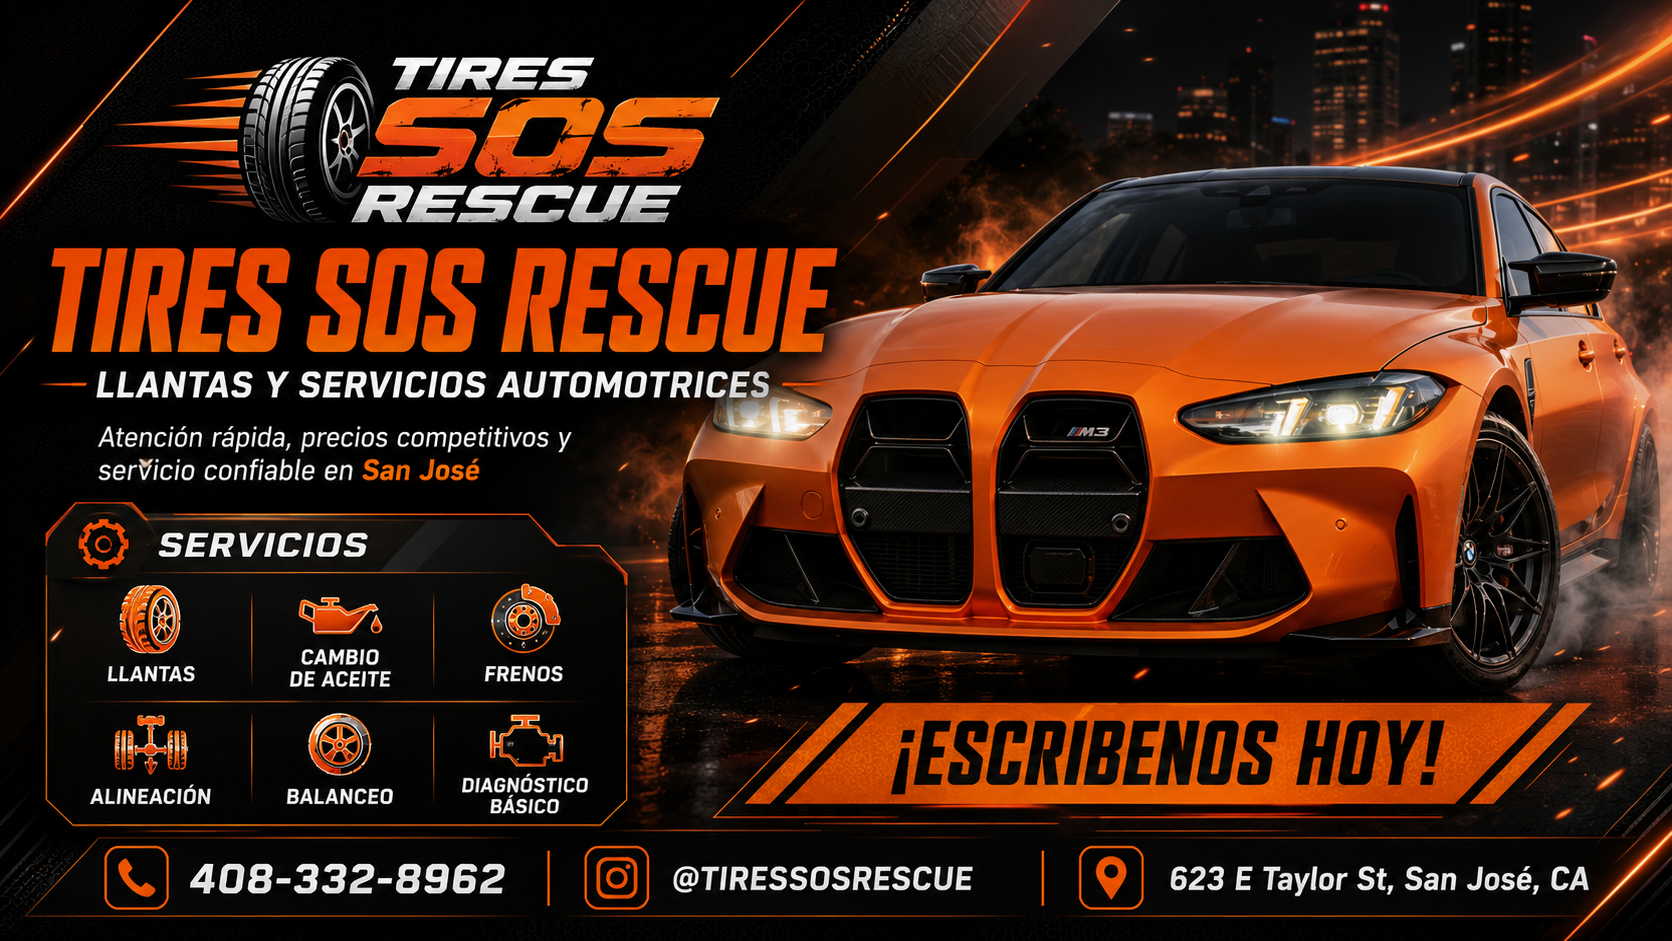
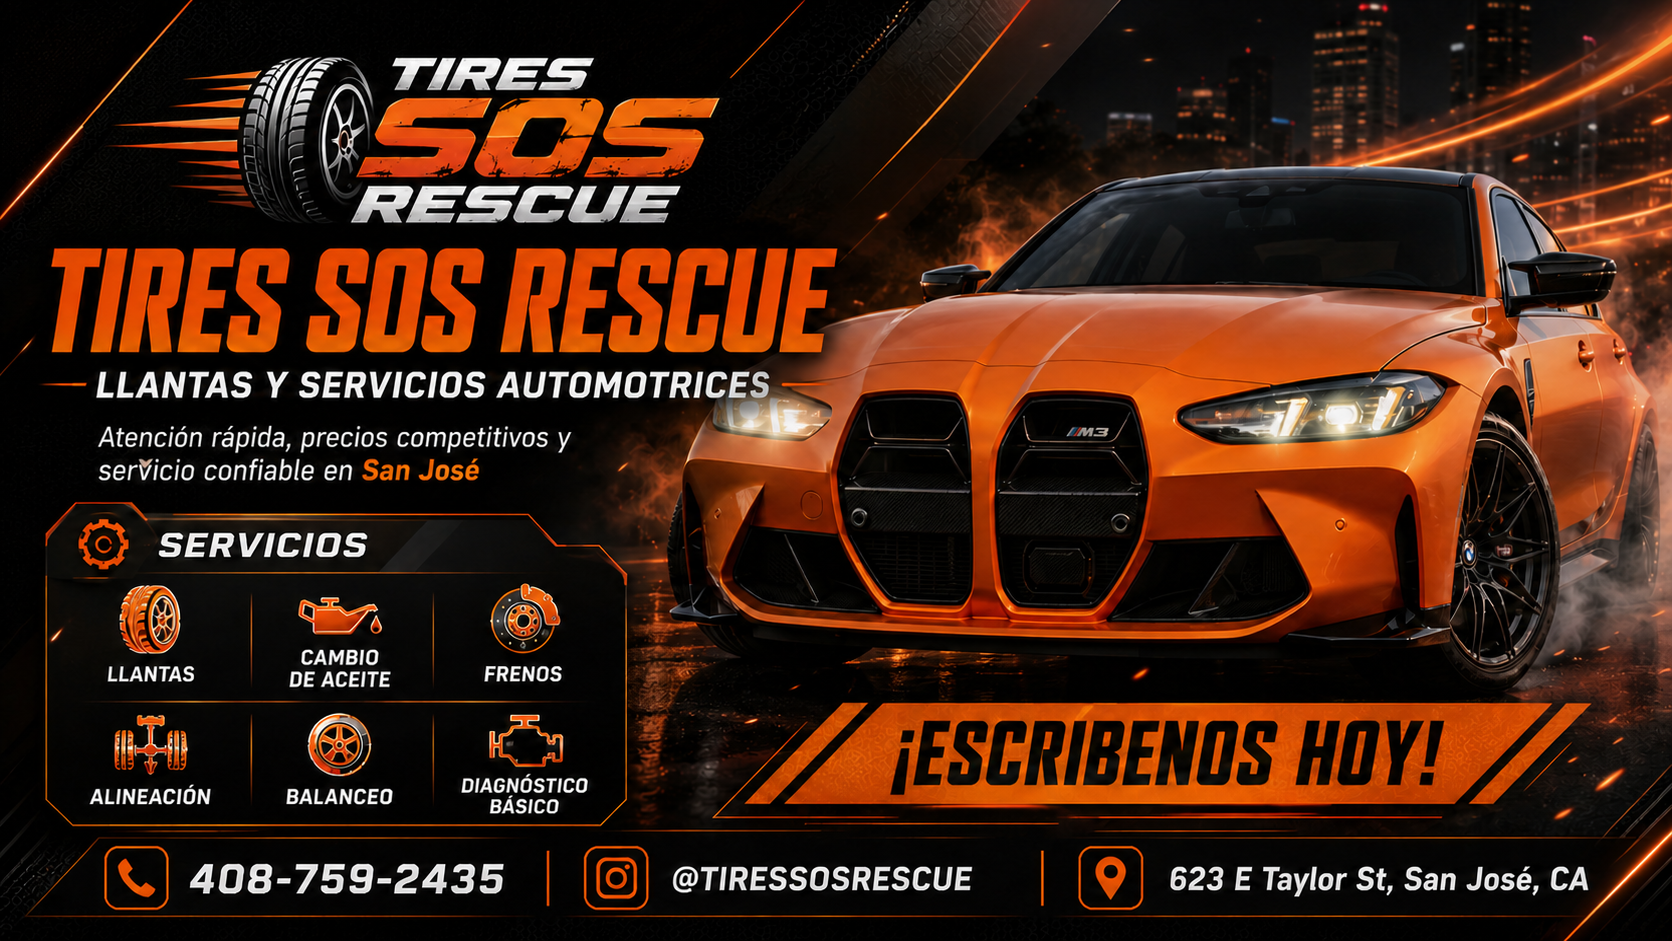
Update contact number and lead attribution

diff --git a/app/components/PostHogAnalytics.js b/app/components/PostHogAnalytics.js
@@ -3,6 +3,36 @@
 import { useEffect } from "react";
 import posthog from "posthog-js";
 
+const ATTRIBUTION_KEYS = ["utm_source", "utm_medium", "utm_campaign", "utm_content", "utm_term"];
+const ATTRIBUTION_STORAGE_KEY = "tires_sos_campaign_attribution";
+
+function currentAttribution() {
+  if (typeof window === "undefined") return {};
+  const params = new URLSearchParams(window.location.search);
+  const incoming = Object.fromEntries(
+    ATTRIBUTION_KEYS.map((key) => [key, params.get(key)?.trim() || ""]).filter(([, value]) => value),
+  );
+
+  let stored = {};
+  try {
+    stored = JSON.parse(window.localStorage.getItem(ATTRIBUTION_STORAGE_KEY) || "{}") || {};
+  } catch {
+    stored = {};
+  }
+
+  const attribution = Object.keys(incoming).length ? incoming : stored;
+  if (Object.keys(incoming).length) {
+    try {
+      window.localStorage.setItem(ATTRIBUTION_STORAGE_KEY, JSON.stringify(incoming));
+    } catch {}
+  }
+  return attribution;
+}
+
+function sourceChannel(attribution) {
+  return attribution.utm_source || attribution.utm_medium || "direct_or_organic";
+}
+
 function contactLocation(link) {
   if (link.dataset.analyticsLocation) return link.dataset.analyticsLocation;
   const section = link.closest("[id]");
@@ -29,20 +59,38 @@ function initializePostHog() {
 }
 
 export function captureAnalytics(event, properties = {}) {
-  if (initializePostHog()) posthog.capture(event, properties);
+  if (!initializePostHog()) return;
+  const attribution = currentAttribution();
+  posthog.capture(event, {
+    ...attribution,
+    source_channel: properties.source_channel || sourceChannel(attribution),
+    page_path: window.location.pathname || "/",
+    ...properties,
+  });
 }
 
 export default function PostHogAnalytics() {
   useEffect(() => {
     if (!initializePostHog()) return undefined;
 
+    const attribution = currentAttribution();
+    if (Object.keys(attribution).length) {
+      posthog.register({ ...attribution, source_channel: sourceChannel(attribution) });
+    }
+
     const trackContact = (event) => {
       const link = event.target.closest("a[href]");
       if (!link) return;
       const href = link.getAttribute("href") || "";
-      const channel = href.startsWith("sms:") ? "sms" : href.includes("wa.me/") ? "whatsapp" : "";
+      const channel = href.startsWith("tel:")
+        ? "telephone"
+        : href.startsWith("sms:")
+          ? "sms"
+          : href.includes("wa.me/")
+            ? "whatsapp"
+            : "";
       if (!channel) return;
-      posthog.capture("contact_click", { channel, location: contactLocation(link) });
+      captureAnalytics("contact_click", { channel, location: contactLocation(link) });
     };
 
     document.addEventListener("click", trackContact, true);

diff --git a/lib/posthog-weekly-report.js b/lib/posthog-weekly-report.js
@@ -188,7 +188,9 @@ function aggregateRows(rows, event, period, dimension, value = "event_count") {
 function aggregateCampaigns(rows, period) {
   const map = new Map();
   rows.filter((row) => row.event === "$pageview" && row.period === period && row.utm_source).forEach((row) => {
-    const key = row.utm_campaign ? `${row.utm_source} / ${row.utm_campaign}` : row.utm_source;
+    const key = [row.utm_source, row.utm_medium, row.utm_campaign, row.utm_content, row.utm_term]
+      .filter(Boolean)
+      .join(" / ");
     map.set(key, (map.get(key) || 0) + number(row.event_count));
   });
   return map;
@@ -249,7 +251,10 @@ export async function generateWeeklyAnalyticsReport(range = {}) {
       coalesce(nullIf(toString(properties.$pathname), ''), '/') as page_path,
       coalesce(nullIf(toString(properties.$referring_domain), ''), 'Direct') as referring_domain,
       coalesce(nullIf(toString(properties.utm_source), ''), '') as utm_source,
+      coalesce(nullIf(toString(properties.utm_medium), ''), '') as utm_medium,
       coalesce(nullIf(toString(properties.utm_campaign), ''), '') as utm_campaign,
+      coalesce(nullIf(toString(properties.utm_content), ''), '') as utm_content,
+      coalesce(nullIf(toString(properties.utm_term), ''), '') as utm_term,
       count() as event_count,
       uniqExact(distinct_id) as unique_users
     from events
@@ -257,7 +262,7 @@ export async function generateWeeklyAnalyticsReport(range = {}) {
       and timestamp < toDateTime('${window.endExclusive} 00:00:00')
       and event in (${quotedEvents})
       ${INTERNAL_PATH_EXCLUSION}
-    group by period, event, location, vehicle_class, persisted, page_path, referring_domain, utm_source, utm_campaign
+    group by period, event, location, vehicle_class, persisted, page_path, referring_domain, utm_source, utm_medium, utm_campaign, utm_content, utm_term
     order by period, event, event_count desc
   `);
   const funnelResult = await queryPostHog(`

diff --git a/app/components/Hero.js b/app/components/Hero.js
@@ -36,6 +36,7 @@ export default function Hero() {
           <div className="hero__actions">
             <a href="/quote" className="btn btn--primary"><Icon name="chat" /> {t(COPY.quote.ctaFromHome)} <Icon name="arrow" /></a>
             <a href={SITE.whatsappHref} target="_blank" rel="noreferrer" className="btn btn--ghost"><Icon name="chat" /> WhatsApp</a>
+            <a href={SITE.phoneHref} className="btn btn--ghost" data-analytics-location="hero"><Icon name="phone" /> Call (408) 759-2435</a>
             <a href={SITE.locations[0].mapsHref} target="_blank" rel="noopener noreferrer" className="btn btn--ghost"><Icon name="pin" /> {t(COPY.hero.directions)}</a>
           </div>
           <p className="hero__afterpay"><span className="afterpay-label">ACEPTAMOS:</span><span className="afterpay-chip">SNAP FINANCE</span><span className="afterpay-chip afterpay-chip--mint">AFTERPAY</span> Pagos flexibles a tu manera</p>

diff --git a/app/quote/QuoteCalculator.js b/app/quote/QuoteCalculator.js
@@ -256,8 +256,12 @@ export default function QuoteCalculator({ pricing }) {
                 data-analytics-location="quote_calculator"
                 onClick={() => captureAnalytics("quote_sent_whatsapp", {
                   vehicle_class: vehicleClass,
-                  estimate_low: result.low,
-                  estimate_high: result.high,
+                  service_type: result.lines[0]?.id || "multiple_services",
+                  service_types: result.lines.map((line) => line.id),
+                  quoted_price: `${result.low}-${result.high}`,
+                  quoted_price_low: result.low,
+                  quoted_price_high: result.high,
+                  quoted_price_currency: cur,
                   services: result.lines.map((line) => line.id),
                 })}
               >

diff --git a/app/components/ChatBot.js b/app/components/ChatBot.js
@@ -564,6 +564,8 @@ export default function ChatBot({
       const persisted = data?.persisted === true;
       captureAnalytics("appointment_requested", {
         chat_mode: mode,
+        service_type: data?.appointment?.serviceType || "unknown",
+        preferred_date: selection.date,
         persisted,
         notification_status: notificationStatus,
         scheduled_date: selection.date,

diff --git a/app/api/appointments/request/route.js b/app/api/appointments/request/route.js
@@ -142,6 +142,7 @@ export async function POST(request) {
       status: reservation.appointment?.status || "requested",
       scheduledDate: date,
       scheduledTime: time,
+      serviceType: lead.service,
     },
     notification,
   });
